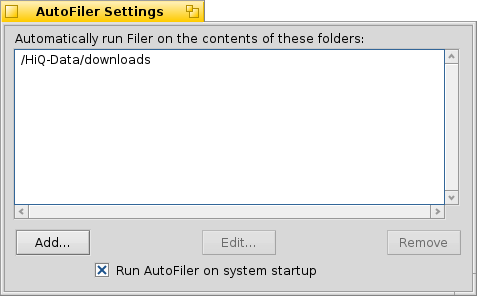
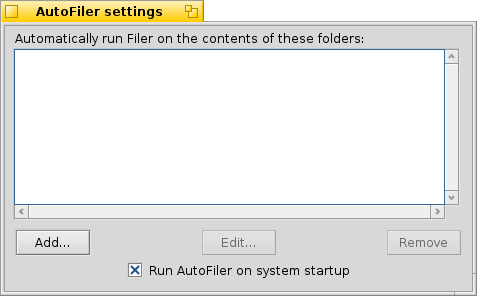
Case sentencing and some minor cleanup
Case sentencing the GUI.
Updated images for documentation.
Fixed typo in user doc.
Removed unused MainWindow.h and Paladin files.

diff --git a/documentation/User Documentation.html b/documentation/User Documentation.html
@@ -114,7 +114,7 @@ ul {
 </div>
 <hr />
 <p><br /></p>
-<p><i>Filer</i> is an automatic file organizer. It takes the files it's opened with or that are dropped on its icon an move, rename, copy or do all sorts of other things with them according to rules created by the user.</p>
+<p><i>Filer</i> is an automatic file organizer. It takes the files it's opened with or that are dropped on its icon and move, rename, copy or do all sorts of other things with them according to rules created by the user.</p>
 <p><i>Filer</i> is accompanied by <i>AutoFiler</i>. Instead of working on a set of files provided by the user, it can be started together with Haiku to monitor certain folders and deal with new files appearing there according to the user-defined rules.</p>
 <h2>
 <a href="#"><img src="images/up.png" style="border:none;float:right" alt="index" /></a>
@@ -142,7 +142,7 @@ ul {
 <a href="#"><img src="images/up.png" style="border:none;float:right" alt="index" /></a>
 <a id="autofiler-usage" name="autofiler-usage">AutoFiler Usage</a></h2>
 <p>The <i>AutoFiler</i> itself is a background application that normally isn't started manually. If you want to stop an already running <i>AutoFiler</i>, you'll have to quit it through a tool like Haiku's ProcessController or kill it from the TeamMonitor (press <span class="key">CTRL</span> <span class="key">ALT</span> <span class="key">DEL</span>).</p>
-<p>The configuration is done with the <i>AutoFilerSettings</i>:</p>
+<p>The configuration is done with the <i>AutoFiler Settings</i>:</p>
 <div align="center">
 <img src="./images/autofiler_settings.png" alt="AutoFiler settings" /></div>
 <p>You can add, edit and remove the folders that <i>AutoFiler</i> will monitor and use the checkbox to enable/disable the automatic launch on startup.</p>

diff --git a/sources/Filer/PrefsWindow.cpp b/sources/Filer/PrefsWindow.cpp
@@ -28,7 +28,7 @@ enum
 
 
 PrefsWindow::PrefsWindow(void)
- :	BWindow(BRect(100,100,450,350),"Filer Settings",B_TITLED_WINDOW,
+ :	BWindow(BRect(100,100,450,350),"Filer settings",B_TITLED_WINDOW,
  			B_ASYNCHRONOUS_CONTROLS | B_NOT_ZOOMABLE),
  	fChanges(false)
 {
@@ -82,7 +82,7 @@ PrefsWindow::PrefsWindow(void)
 	fRemoveButton->SetEnabled(false);
 	
 	
-	fMoveDownButton = new BButton(BRect(0,0,1,1),"movedownbutton","Move Down",
+	fMoveDownButton = new BButton(BRect(0,0,1,1),"movedownbutton","Move down",
 									new BMessage(M_MOVE_RULE_DOWN),
 									B_FOLLOW_LEFT | B_FOLLOW_BOTTOM);
 	fMoveDownButton->ResizeToPreferred();
@@ -90,7 +90,7 @@ PrefsWindow::PrefsWindow(void)
 					fAddButton->Frame().bottom + 10.0);
 	
 	
-	fMoveUpButton = new BButton(BRect(0,0,1,1),"moveupbutton","Move Up",
+	fMoveUpButton = new BButton(BRect(0,0,1,1),"moveupbutton","Move up",
 									new BMessage(M_MOVE_RULE_UP),
 									B_FOLLOW_LEFT | B_FOLLOW_BOTTOM);
 	fMoveUpButton->ResizeTo(fMoveDownButton->Bounds().Width(), fMoveDownButton->Bounds().Height());

diff --git a/sources/Filer/RuleEditWindow.cpp b/sources/Filer/RuleEditWindow.cpp
@@ -38,13 +38,13 @@ enum
 
 
 RuleEditWindow::RuleEditWindow(BRect &rect, FilerRule *rule)
- :	BWindow(rect,"Edit Rule",B_TITLED_WINDOW,B_ASYNCHRONOUS_CONTROLS | B_NOT_RESIZABLE),
+ :	BWindow(rect,"Edit rule",B_TITLED_WINDOW,B_ASYNCHRONOUS_CONTROLS | B_NOT_RESIZABLE),
  	fOriginalID(-1)
 {
 	if (rule)
 		fOriginalID = rule->GetID();
 	else
-		SetTitle("Add Rule");
+		SetTitle("Add rule");
 	
 	
 	AddCommonFilter(new EscapeCancelFilter);
@@ -375,7 +375,7 @@ RuleEditWindow::SendRuleMessage(void)
 	for (int32 i = 0; i < be_app->CountWindows(); i++)
 	{
 		BWindow *win = be_app->WindowAt(i);
-		if (strcmp(win->Title(),"Filer Settings") == 0)
+		if (strcmp(win->Title(),"Filer settings") == 0)
 			win->PostMessage(&msg);
 	}
 }

diff --git a/sources/Filer/FSUtils.cpp b/sources/Filer/FSUtils.cpp
@@ -79,8 +79,8 @@ status_t CheckCopiable(BEntry *src,BEntry *dest)
 		newpath+=name;
 		newpath+=" exists. Do you want to replace it?";
 		
-		BAlert *alert=new BAlert("Error",newpath.String(),"Replace File",
-		 "Skip File", "Stop");
+		BAlert *alert=new BAlert("Error",newpath.String(),"Replace file",
+		 "Skip file", "Stop");
 		returncode=alert->Go();
 		switch(returncode)
 		{

diff --git a/sources/Filer/RuleItem.cpp b/sources/Filer/RuleItem.cpp
@@ -22,7 +22,7 @@ RuleItem::SetRule(FilerRule *rule)
 	if (fRule)
 		SetText(rule->GetDescription());
 	else
-		SetText("BUG:Invalid Rule");
+		SetText("BUG: Invalid rule");
 }
 
 

diff --git a/sources/AutoFiler/AutoFiler.h b/sources/AutoFiler/AutoFiler.h
@@ -9,8 +9,6 @@
 #include <Application.h>
 #include <Message.h>
 
-class MainWindow;
-
 class App : public BApplication
 {
 public:
